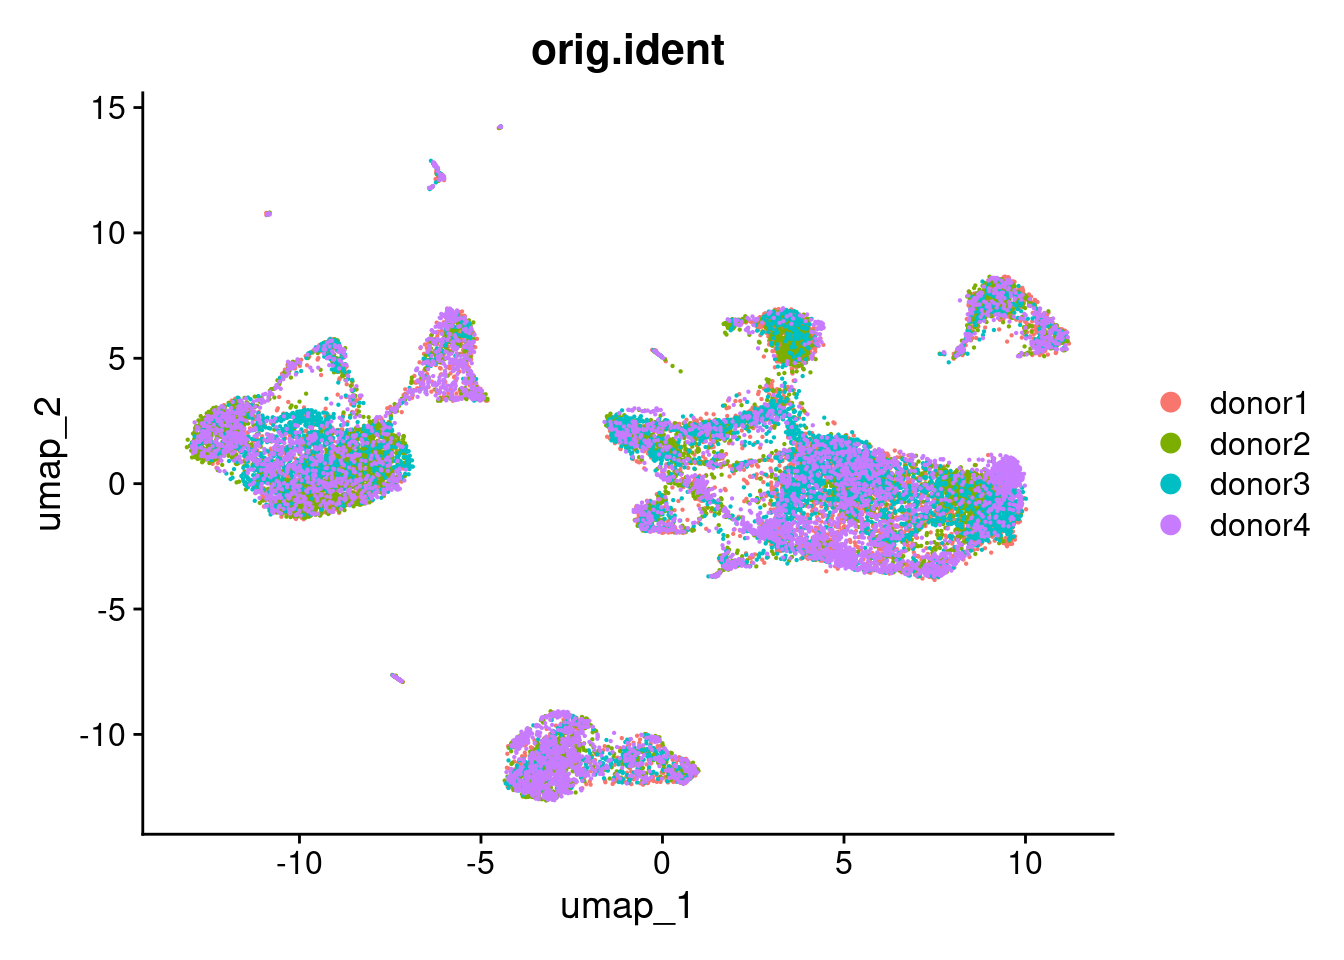
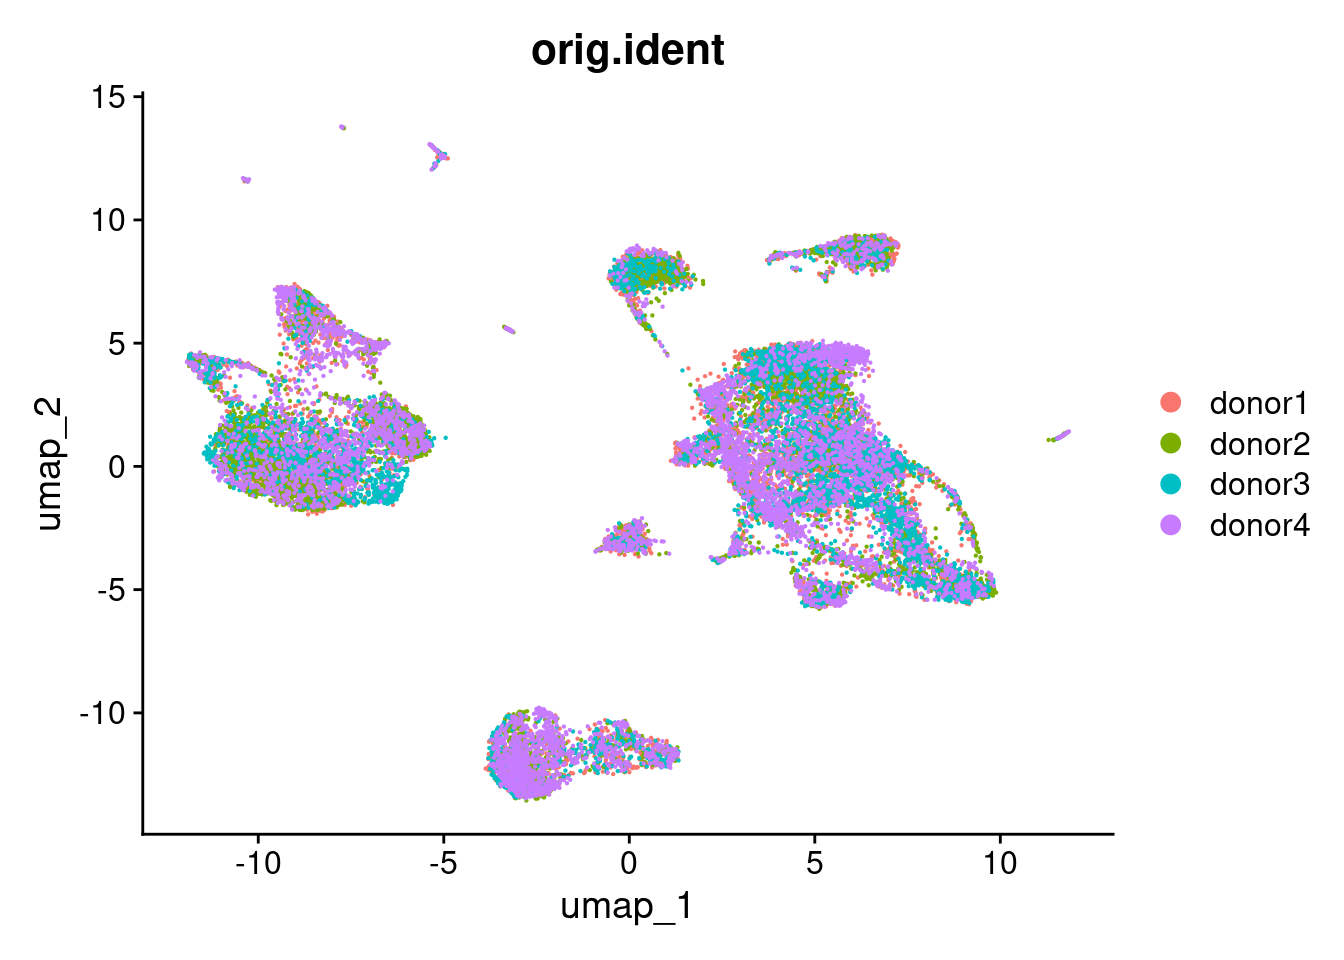
Build site.

diff --git a/docs/pbmc20k.html b/docs/pbmc20k.html
@@ -10,7 +10,7 @@
 
 
 
-<meta name="date" content="2025-02-24" />
+<meta name="date" content="2025-03-01" />
 
 <title>Analysing 20k cells</title>
 
@@ -359,7 +359,7 @@ div.tocify {
 
 
 <h1 class="title toc-ignore">Analysing 20k cells</h1>
-<h4 class="date">2025-02-24</h4>
+<h4 class="date">2025-03-01</h4>
 
 </div>
 
@@ -388,7 +388,7 @@ class="glyphicon glyphicon-ok text-success" aria-hidden="true"></span>
 <div class="tab-content">
 <div id="summary" class="tab-pane fade in active">
 <p>
-<strong>Last updated:</strong> 2025-02-24
+<strong>Last updated:</strong> 2025-03-01
 </p>
 <p>
 <strong>Checks:</strong> <span
@@ -519,15 +519,15 @@ project makes it easier to run your code on other machines.</p>
 <div class="panel panel-default">
 <div class="panel-heading">
 <p class="panel-title">
-<a data-toggle="collapse" data-parent="#workflowr-checks" href="#strongRepositoryversionstrongahrefhttpsgithubcomdavetangmusetree6daf5ce50813de852e253f829b9d4a001e03e6dbtargetblank6daf5cea">
+<a data-toggle="collapse" data-parent="#workflowr-checks" href="#strongRepositoryversionstrongahrefhttpsgithubcomdavetangmusetree6550d2d754f6ccb33bed339fa86367b05f3ddd9ftargetblank6550d2da">
 <span class="glyphicon glyphicon-ok text-success"
 aria-hidden="true"></span> <strong>Repository version:</strong>
-<a href="https://github.com/davetang/muse/tree/6daf5ce50813de852e253f829b9d4a001e03e6db" target="_blank">6daf5ce</a>
+<a href="https://github.com/davetang/muse/tree/6550d2d754f6ccb33bed339fa86367b05f3ddd9f" target="_blank">6550d2d</a>
 </a>
 </p>
 </div>
 <div
[2 lines of base64/hex data omitted]
 class="panel-collapse collapse">
 <div class="panel-body">
 <p>
@@ -537,7 +537,7 @@ reproducibility.
 </p>
 <p>
 The results in this page were generated with repository version
-<a href="https://github.com/davetang/muse/tree/6daf5ce50813de852e253f829b9d4a001e03e6db" target="_blank">6daf5ce</a>.
+<a href="https://github.com/davetang/muse/tree/6550d2d754f6ccb33bed339fa86367b05f3ddd9f" target="_blank">6550d2d</a>.
 See the <em>Past versions</em> tab to see a history of the changes made
 to the R Markdown and HTML files.
 </p>
@@ -553,6 +553,7 @@ were generated:
 <pre><code>
 Ignored files:
     Ignored:    .Rproj.user/
+    Ignored:    analysis/figure/
     Ignored:    data/1M_neurons_filtered_gene_bc_matrices_h5.h5
     Ignored:    data/293t/
     Ignored:    data/293t_3t3_filtered_gene_bc_matrices.tar.gz
@@ -570,6 +571,7 @@ Ignored files:
     Ignored:    data/jurkat_293t/
     Ignored:    data/jurkat_filtered_gene_bc_matrices.tar.gz
     Ignored:    data/pbmc20k/
+    Ignored:    data/pbmc20k_seurat/
     Ignored:    data/pbmc3k/
     Ignored:    data/pbmc4k_filtered_gene_bc_matrices.tar.gz
     Ignored:    data/refdata-gex-GRCh38-2020-A.tar.gz
@@ -578,7 +580,7 @@ Ignored files:
     Ignored:    r_packages_4.4.1/
 
 Untracked files:
-    Untracked:  data/pbmc20k_seurat/
+    Untracked:  analysis/bioc_scrnaseq.Rmd
 
 </code></pre>
 <p>
@@ -623,6 +625,40 @@ Message
 </tr>
 </thead>
 <tbody>
+<tr>
+<td>
+Rmd
+</td>
+<td>
+<a href="https://github.com/davetang/muse/blob/6550d2d754f6ccb33bed339fa86367b05f3ddd9f/analysis/pbmc20k.Rmd" target="_blank">6550d2d</a>
+</td>
+<td>
+Dave Tang
+</td>
+<td>
+2025-03-01
+</td>
+<td>
+Use BPCells matrices from the start
+</td>
+</tr>
+<tr>
+<td>
+html
+</td>
+<td>
+<a href="https://rawcdn.githack.com/davetang/muse/607fc5d595889782ae4239851d2e92057d9a83e4/docs/pbmc20k.html" target="_blank">607fc5d</a>
+</td>
+<td>
+Dave Tang
+</td>
+<td>
+2025-02-24
+</td>
+<td>
+Build site.
+</td>
+</tr>
 <tr>
 <td>
 Rmd
@@ -819,7 +855,7 @@ Analysing 20k cells
 </div>
 <div id="data" class="section level2">
 <h2>Data</h2>
-<p>Read HDF5 files into a list.</p>
+<p>Read HDF5 file paths into a list.</p>
 <pre class="r"><code>hdf5_files &lt;- list.files(path = &quot;data&quot;, pattern = &quot;5k_Human&quot;, full.names = TRUE)
 hdf5_files</code></pre>
 <pre><code>[1] &quot;data/5k_Human_Donor1_PBMC_3p_gem-x_5k_Human_Donor1_PBMC_3p_gem-x_count_sample_filtered_feature_bc_matrix.h5&quot;
@@ -828,58 +864,85 @@ hdf5_files</code></pre>
 [4] &quot;data/5k_Human_Donor4_PBMC_3p_gem-x_5k_Human_Donor4_PBMC_3p_gem-x_count_sample_filtered_feature_bc_matrix.h5&quot;</code></pre>
 <p>Read raw counts into a list of matrices.</p>
 <pre class="r"><code>mats &lt;- purrr::map(seq_along(hdf5_files), function(x){
-  my_mat &lt;- Seurat::Read10X_h5(hdf5_files[x])
+  my_mat &lt;- BPCells::open_matrix_10x_hdf5(hdf5_files[x])
   colnames(my_mat) &lt;- paste0(&#39;donor&#39;, x, &#39;_&#39;, colnames(my_mat))
   my_mat
 })
 str(mats, max.level = 1)</code></pre>
 <pre><code>List of 4
- $ :Formal class &#39;dgCMatrix&#39; [package &quot;Matrix&quot;] with 6 slots
- $ :Formal class &#39;dgCMatrix&#39; [package &quot;Matrix&quot;] with 6 slots
- $ :Formal class &#39;dgCMatrix&#39; [package &quot;Matrix&quot;] with 6 slots
- $ :Formal class &#39;dgCMatrix&#39; [package &quot;Matrix&quot;] with 6 slots</code></pre>
+ $ :Formal class &#39;RenameDims&#39; [package &quot;BPCells&quot;] with 4 slots
+ $ :Formal class &#39;RenameDims&#39; [package &quot;BPCells&quot;] with 4 slots
+ $ :Formal class &#39;RenameDims&#39; [package &quot;BPCells&quot;] with 4 slots
+ $ :Formal class &#39;RenameDims&#39; [package &quot;BPCells&quot;] with 4 slots</code></pre>
+<p>Get gene names.</p>
+<pre class="r"><code>mat_tmp &lt;- Seurat::Read10X_h5(hdf5_files[1])
+my_genes &lt;- row.names(mat_tmp)
+rm(mat_tmp)
+gc()</code></pre>
+<pre><code>           used  (Mb) gc trigger  (Mb)  max used  (Mb)
+Ncells 10995803 587.3   16559960 884.4  14635520 781.7
+Vcells 19679453 150.2   85287993 650.7 106593458 813.3</code></pre>
+<p>Combine the matrices.</p>
+<pre class="r"><code>combined_matrix &lt;- do.call(cbind, mats)
+row.names(combined_matrix) &lt;- my_genes
+combined_matrix</code></pre>
+<pre><code>38606 x 22203 IterableMatrix object with class RenameDims
+
+Row names: DDX11L2, MIR1302-2HG ... ENSG00000277196
+Col names: donor1_AAACCAAAGGTGACGA-1, donor1_AAACCCTGTGACGAGT-1 ... donor4_TGTGTTGAGTTACGGC-1
+
+Data type: uint32_t
+Storage order: column major
+
+Queued Operations:
+1. Concatenate cols of 4 matrix objects with classes: RenameDims, RenameDims ... RenameDims (threads=0)
+2. Reset dimnames</code></pre>
 </div>
 <div id="seurat-object" class="section level2">
 <h2>Seurat object</h2>
 <p>Create Seurat object from the list of matrices.</p>
 <pre class="r"><code>pbmc20k &lt;- CreateSeuratObject(
-  counts = mats,
+  counts = combined_matrix,
   min.cells = 3,
   min.features = 200
 )
 pbmc20k</code></pre>
 <pre><code>An object of class Seurat 
-27385 features across 22061 samples within 1 assay 
-Active assay: RNA (27385 features, 0 variable features)
- 4 layers present: counts.1, counts.2, counts.3, counts.4</code></pre>
-<p>Create one count layer.</p>
-<pre class="r"><code>pbmc20k &lt;- JoinLayers(pbmc20k)
-pbmc20k</code></pre>
-<pre><code>An object of class Seurat 
-27385 features across 22061 samples within 1 assay 
-Active assay: RNA (27385 features, 0 variable features)
+29157 features across 22061 samples within 1 assay 
+Active assay: RNA (29157 features, 0 variable features)
  1 layer present: counts</code></pre>
+<p>Counts layer.</p>
+<pre class="r"><code>pbmc20k@assays$RNA$counts</code></pre>
+<pre><code>29157 x 22061 IterableMatrix object with class RenameDims
+
+Row names: DDX11L2, ENSG00000238009 ... ENSG00000278817
+Col names: donor1_AAACCAAAGGTGACGA-1, donor1_AAACCCTGTGACGAGT-1 ... donor4_TGTGTTGAGTTACGGC-1
+
+Data type: uint32_t
+Storage order: column major
+
+Queued Operations:
+1. Concatenate cols of 4 matrix objects with classes: RenameDims, RenameDims ... RenameDims (threads=0)
+2. Reset dimnames</code></pre>
 <p>Donor information in <code>orig.ident</code>.</p>
 <pre class="r"><code>head(pbmc20k@meta.data)</code></pre>
 <pre><code>                          orig.ident nCount_RNA nFeature_RNA
-donor1_AAACCAAAGGTGACGA-1     donor1      42833         7079
-donor1_AAACCCTGTGACGAGT-1     donor1       4890         2102
+donor1_AAACCAAAGGTGACGA-1     donor1      42841         7087
+donor1_AAACCCTGTGACGAGT-1     donor1       4896         2104
 donor1_AAACGAATCAGGCTAC-1     donor1      12498         3564
-donor1_AAACGACAGATTGACT-1     donor1      22193         4366
+donor1_AAACGACAGATTGACT-1     donor1      22198         4371
 donor1_AAACGATGTCTTGAAC-1     donor1      10305         2945
-donor1_AAACGATGTGCGCGAA-1     donor1      15947         4160</code></pre>
-<p>Use {BPCells} to convert the matrices in your already created Seurat
-objects to on-disk matrices. Note, that this is only possible for V5
-assays. Convert the counts matrix of the RNA assay to a BPCells
-matrix.</p>
+donor1_AAACGATGTGCGCGAA-1     donor1      15948         4161</code></pre>
+<p>Use {BPCells} to store the matrix in the Seurat object to on-disk
+matrices. Note, that this is only possible for V5 assays.</p>
 <pre class="r"><code>BPCells::write_matrix_dir(
-  mat = BPCells::convert_matrix_type(matrix = pbmc20k@assays$RNA$counts, type = &quot;uint32_t&quot;),
+  mat = pbmc20k@assays$RNA$counts,
   dir = &#39;data/pbmc20k&#39;,
   overwrite = TRUE
 )</code></pre>
-<pre><code>27385 x 22061 IterableMatrix object with class MatrixDir
+<pre><code>29157 x 22061 IterableMatrix object with class MatrixDir
 
-Row names: ENSG00000238009, ENSG00000239945 ... AMELY
+Row names: DDX11L2, ENSG00000238009 ... ENSG00000278817
 Col names: donor1_AAACCAAAGGTGACGA-1, donor1_AAACCCTGTGACGAGT-1 ... donor4_TGTGTTGAGTTACGGC-1
 
 Data type: uint32_t
@@ -891,9 +954,9 @@ Queued Operations:
 
 pbmc20k@assays$RNA$counts &lt;- pbmc20k.mat
 pbmc20k@assays$RNA$counts</code></pre>
-<pre><code>27385 x 22061 IterableMatrix object with class RenameDims
+<pre><code>29157 x 22061 IterableMatrix object with class RenameDims
 
-Row names: ENSG00000238009, ENSG00000239945 ... AMELY
+Row names: DDX11L2, ENSG00000238009 ... ENSG00000278817
 Col names: donor1_AAACCAAAGGTGACGA-1, donor1_AAACCCTGTGACGAGT-1 ... donor4_TGTGTTGAGTTACGGC-1
 
 Data type: uint32_t
@@ -984,9 +1047,9 @@ This message will be shown once per session</code></pre>
 <p>Normalised and scaled data are stored as <code>IterableMatrix</code>
 objects.</p>
 <pre class="r"><code>pbmc20k@assays$RNA$data</code></pre>
-<pre><code>27385 x 22061 IterableMatrix object with class RenameDims
+<pre><code>29157 x 22061 IterableMatrix object with class RenameDims
 
-Row names: ENSG00000238009, ENSG00000239945 ... AMELY
+Row names: DDX11L2, ENSG00000238009 ... ENSG00000278817
 Col names: donor1_AAACCAAAGGTGACGA-1, donor1_AAACCCTGTGACGAGT-1 ... donor4_TGTGTTGAGTTACGGC-1
 
 Data type: double
@@ -1003,7 +1066,7 @@ Queued Operations:
 <pre class="r"><code>pbmc20k@assays$RNA$scale.data</code></pre>
 <pre><code>2000 x 22061 IterableMatrix object with class RenameDims
 
-Row names: HES4, ISG15 ... ENSG00000265995
+Row names: HES4, ISG15 ... ENSG00000275063
 Col names: donor1_AAACCAAAGGTGACGA-1, donor1_AAACCCTGTGACGAGT-1 ... donor4_TGTGTTGAGTTACGGC-1
 
 Data type: double
@@ -1011,18 +1074,18 @@ Storage order: column major
 
 Queued Operations:
 1. Load compressed matrix from directory /home/rstudio/muse/data/pbmc20k
-2. Select rows: 19, 20 ... 27288 and cols: all
+2. Select rows: 24, 25 ... 29156 and cols: all
 3. Reset dimnames
 4. Convert type from uint32_t to double
 5. Scale by 1e+04
 6. Scale columns by 2.33e-05, 0.000204 ... 7.7e-05
 7. Transform log1p
-8. Select rows: 489, 1810 ... 438 and cols: all
+8. Select rows: 497, 1853 ... 446 and cols: all
 9. Reset dimnames
-10. Transform min by row: 2.8, 2.49 ... 1
-11. Scale rows by 3.59, 4.04 ... 10.1
-12. Shift rows by -0.0687, -0.0609 ... -0.12
-13. Select rows: 1243, 443 ... 1553 and cols: all
+10. Transform min by row: 2.8, 2.49 ... 0.38
+11. Scale rows by 3.59, 4.04 ... 26.4
+12. Shift rows by -0.0687, -0.0609 ... -0.049
+13. Select rows: 1252, 443 ... 604 and cols: all
 14. Reset dimnames</code></pre>
 <p>UMAP.</p>
 <pre class="r"><code>DimPlot(pbmc20k, reduction = &quot;umap&quot;, group.by = &quot;orig.ident&quot;, pt.size = .1)</code></pre>
@@ -1087,25 +1150,25 @@ colData names(3): label.main label.fine label.ont</code></pre>
 <pre><code>Warning: Converting to a dense matrix may use excessive memory
 This message is displayed once every 8 hours.</code></pre>
 <pre><code>Warning in asMethod(object): sparse-&gt;dense coercion: allocating vector of size
-4.5 GiB</code></pre>
+4.8 GiB</code></pre>
 <pre class="r"><code>head(pbmc20k.anno)</code></pre>
 <pre><code>DataFrame with 6 rows and 4 columns
                                                   scores       labels
                                                 &lt;matrix&gt;  &lt;character&gt;
-donor1_AAACCAAAGGTGACGA-1 0.324853:0.258408:0.483121:...      T cells
-donor1_AAACCCTGTGACGAGT-1 0.151325:0.124804:0.304293:... CD4+ T cells
-donor1_AAACGAATCAGGCTAC-1 0.252303:0.235463:0.436783:... CD4+ T cells
-donor1_AAACGACAGATTGACT-1 0.318234:0.338696:0.122619:...    Monocytes
-donor1_AAACGATGTCTTGAAC-1 0.230288:0.199487:0.418062:... CD4+ T cells
-donor1_AAACGATGTGCGCGAA-1 0.470569:0.243399:0.252875:...      B cells
+donor1_AAACCAAAGGTGACGA-1 0.320884:0.260316:0.480567:...      T cells
+donor1_AAACCCTGTGACGAGT-1 0.150790:0.128674:0.302692:... CD4+ T cells
+donor1_AAACGAATCAGGCTAC-1 0.250532:0.239444:0.435132:... CD4+ T cells
+donor1_AAACGACAGATTGACT-1 0.318373:0.340789:0.126101:...    Monocytes
+donor1_AAACGATGTCTTGAAC-1 0.228895:0.202186:0.417512:... CD4+ T cells
+donor1_AAACGATGTGCGCGAA-1 0.467819:0.245565:0.253680:...      B cells
                           delta.next pruned.labels
                            &lt;numeric&gt;   &lt;character&gt;
-donor1_AAACCAAAGGTGACGA-1  0.0820203       T cells
-donor1_AAACCCTGTGACGAGT-1  0.0984110  CD4+ T cells
-donor1_AAACGAATCAGGCTAC-1  0.0642314  CD4+ T cells
-donor1_AAACGACAGATTGACT-1  0.1762658     Monocytes
-donor1_AAACGATGTCTTGAAC-1  0.0913007  CD4+ T cells
-donor1_AAACGATGTGCGCGAA-1  0.1458069       B cells</code></pre>
+donor1_AAACCAAAGGTGACGA-1  0.0813905       T cells
+donor1_AAACCCTGTGACGAGT-1  0.0978551  CD4+ T cells
+donor1_AAACGAATCAGGCTAC-1  0.0634572  CD4+ T cells
+donor1_AAACGACAGATTGACT-1  0.1820548     Monocytes
+donor1_AAACGATGTCTTGAAC-1  0.0908428  CD4+ T cells
+donor1_AAACGATGTGCGCGAA-1  0.1411577       B cells</code></pre>
 <p>Add annotations to metadata.</p>
 <pre class="r"><code>cbind(
   pbmc20k@meta.data,
@@ -1190,14 +1253,14 @@ layers will be imported.</p>
 <pre class="r"><code>pbmc20k_import &lt;- LoadSeuratRds(paste0(output_dir, &#39;/pbmc20k.rds&#39;))
 pbmc20k_import</code></pre>
 <pre><code>An object of class Seurat 
-27385 features across 22061 samples within 1 assay 
-Active assay: RNA (27385 features, 2000 variable features)
+29157 features across 22061 samples within 1 assay 
+Active assay: RNA (29157 features, 2000 variable features)
  3 layers present: counts, data, scale.data
  3 dimensional reductions calculated: pca, harmony, umap</code></pre>
 <pre class="r"><code>pbmc20k_import@assays$RNA$counts</code></pre>
-<pre><code>27385 x 22061 IterableMatrix object with class RenameDims
+<pre><code>29157 x 22061 IterableMatrix object with class RenameDims
 
-Row names: ENSG00000238009, ENSG00000239945 ... AMELY
+Row names: DDX11L2, ENSG00000238009 ... ENSG00000278817
 Col names: donor1_AAACCAAAGGTGACGA-1, donor1_AAACCCTGTGACGAGT-1 ... donor4_TGTGTTGAGTTACGGC-1
 
 Data type: uint32_t
